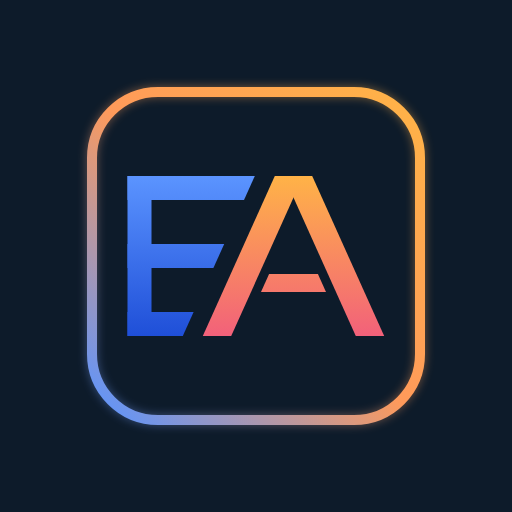
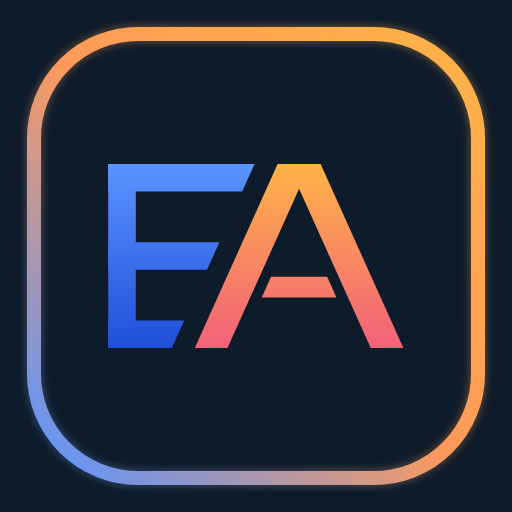
Icône : cadre dégradé au bord de l'icône (contour extérieur)
Le contour arrondi longe maintenant le bord de l'icône (inset réduit, rayon
plus grand, EA agrandi), au lieu d'un petit encadré centré. Reste dans le
gabarit d'arrondi iPhone pour ne pas être rogné. PNG régénérés, cache ea8, SW v8.

Claude-Session: https://claude.ai/code/session_01QakTk93iYZvV64rPhYwZKN

Changed region(s): [[0.1562, 0.1562, 0.8438, 0.8438], [0.0312, 0.0312, 0.9688, 0.9688], [0.4062, 0.5625, 0.4375, 0.625]]

diff --git a/index.html b/index.html
@@ -29,9 +29,9 @@
 <meta name="twitter:title" content="Elite Adapt - Suivi Sportif">
 <meta name="twitter:description" content="Coaching, programmes, RPE, wellness et nutrition.">
 <meta name="twitter:image" content="https://blueperf.vercel.app/og-image.png">
-<link rel="icon" href="/elite-adapt-icon.svg?v=ea7" type="image/svg+xml">
-<link rel="icon" href="/icons/icon-192.png?v=ea7">
-<link rel="apple-touch-icon" href="/icons/apple-touch-icon.png?v=ea7">
+<link rel="icon" href="/elite-adapt-icon.svg?v=ea8" type="image/svg+xml">
+<link rel="icon" href="/icons/icon-192.png?v=ea8">
+<link rel="apple-touch-icon" href="/icons/apple-touch-icon.png?v=ea8">
 <link rel="preconnect" href="https://fonts.googleapis.com">
 <link href="https://fonts.googleapis.com/css2?family=Space+Grotesk:wght@500;600;700&family=Inter:wght@400;500;600;700&display=swap" rel="stylesheet">
 <style>

diff --git a/sw.js b/sw.js
@@ -14,7 +14,7 @@
      on sert le cache tout de suite (rapide + hors-ligne) ET on rafraîchit en arrière-plan,
      donc le rechargement suivant a la version à jour.
    - /api/* : jamais touché (toujours réseau direct). */
-const CACHE = 'elite-adapt-shell-v7';
+const CACHE = 'elite-adapt-shell-v8';
 const PRECACHE = [
   '/offline.html',
   '/',
